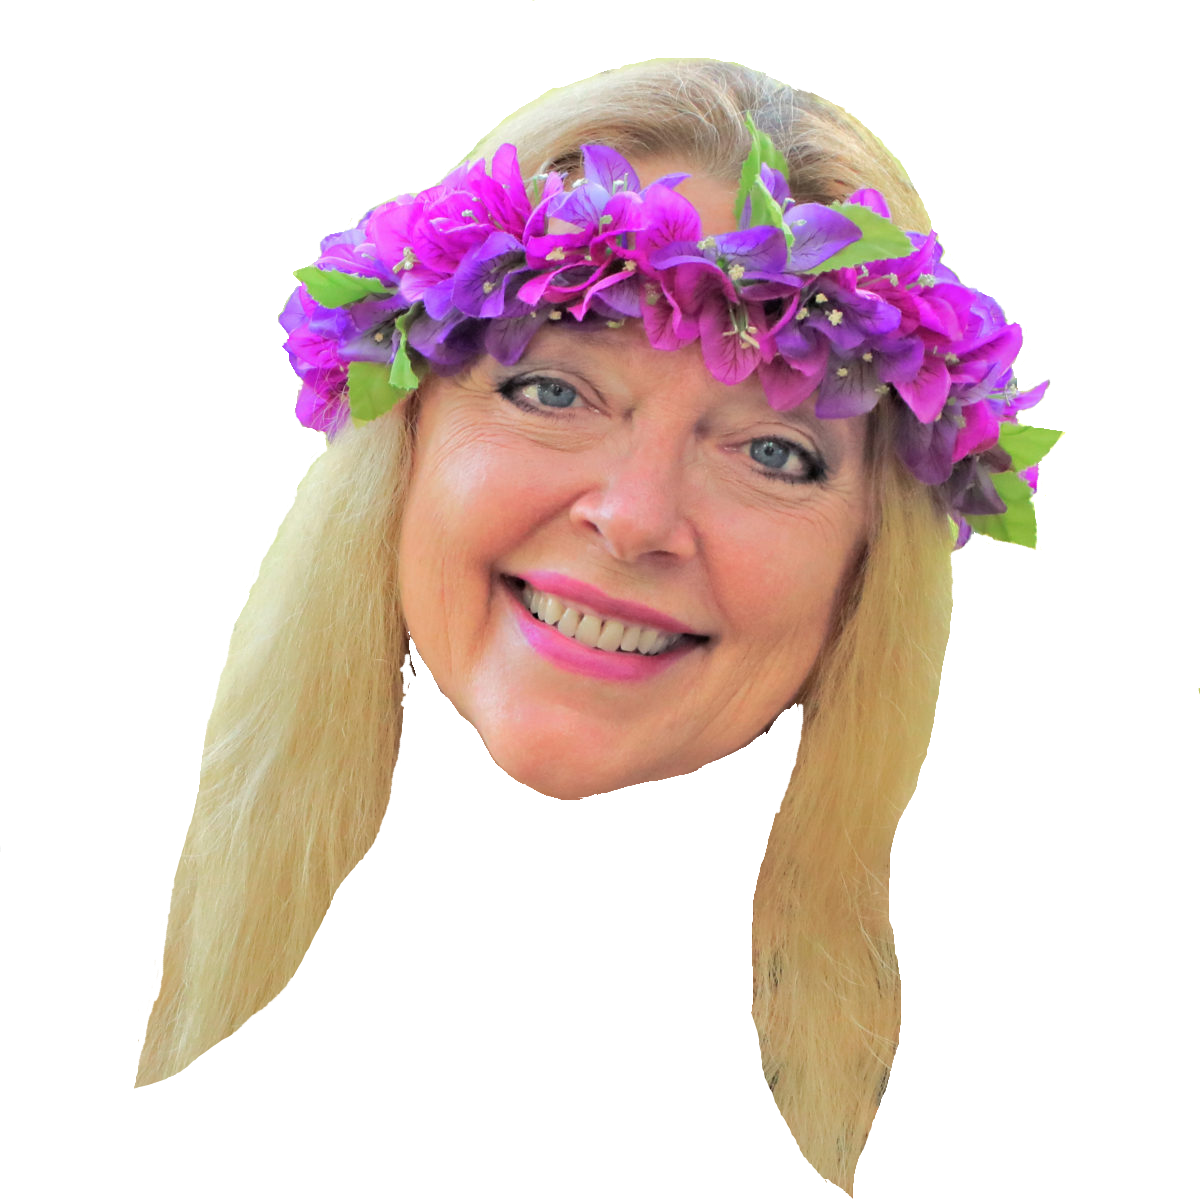
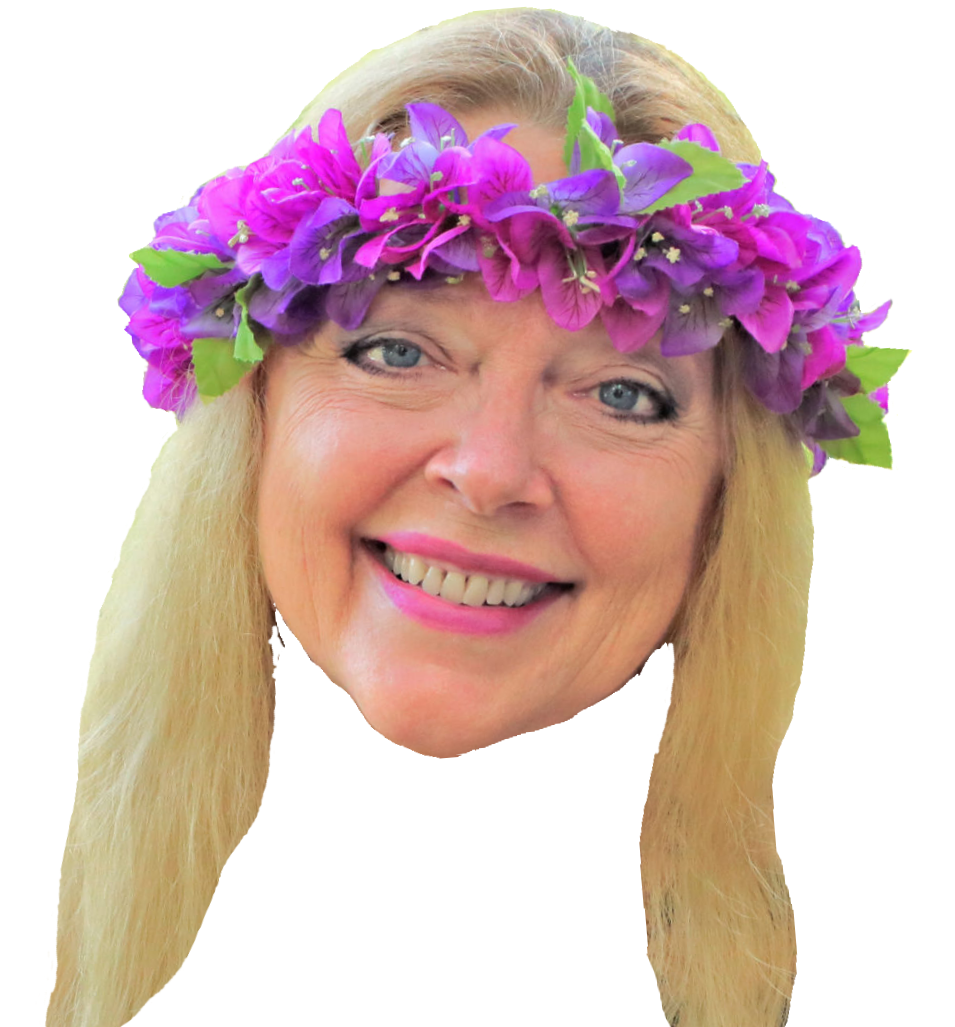
Refine image placement on main game board

diff --git a/style.css b/style.css
@@ -89,7 +89,6 @@ button:hover {
     color: white;
     background-color: #E26A2C;
     transition-duration: 0.1s;
-    /* border: 1px outset #E5890A;  */
 }
 
 .start-game-popup button {
@@ -98,7 +97,7 @@ button:hover {
     margin: 10px;
 }
 
-.start-game-popup button, .popup-div .restart-btn {
+.start-game-popup button, .restart-btn {
     background-color: #FFC600;
     color: #1B1212;
 }
@@ -162,7 +161,7 @@ header {
     background-color: linen;
     font-size: 14pt;
     text-align: center;
-    width: 90%;
+    max-width: 50%;
     padding: 15px;
     border-top-left-radius: 50px 120px;
     border-top-right-radius: 50px 80px;
@@ -176,8 +175,16 @@ main {
     margin: 40px 10px;
 }
 
-aside img {
+.player1 img {
+    margin-bottom: -15%;
+    width: 90%;
+    transform: rotate(-11deg);
+}
+
+.player2 img {
+    margin-bottom: -20%;
     width: 100%;
+    transform: rotate(-5deg);
 }
 
 .player-info-div {
@@ -206,18 +213,18 @@ aside img {
 
 .player1 div img {
     float: left;
-    margin-left: 10px;
-    margin-bottom: 2px;
+    margin: 0 1% 1% 5%;
 }
 
 .player2 div {
     transform: rotate(2deg);
     box-shadow: 8px 8px 10px #362419;
+    margin-right: 15%;
 }
 
 .player2 div img {
     float: right;
-    margin-right: 10px;
+    margin: 0 10% 0 1%;
 }
 
 .player-info-div img {
@@ -295,7 +302,7 @@ aside img {
     width: 50%;
 } 
 
-.player1-win-popup h2, .player2-win-popup h2 {
+.player1-win-popup h2, .player2-win-popup h2, .tie-popup h2 {
     color: #FFC600;
 }
 
@@ -327,8 +334,8 @@ footer a {
 }
 
 .shake-horizontal {
-	-webkit-animation: shake-horizontal 0.8s cubic-bezier(0.455, 0.030, 0.515, 0.955) 2s both;
-	animation: shake-horizontal 0.8s cubic-bezier(0.455, 0.030, 0.515, 0.955) 2s both;
+	-webkit-animation: shake-horizontal 0.8s cubic-bezier(0.455, 0.030, 0.515, 0.955) 1.5s both;
+	animation: shake-horizontal 0.8s cubic-bezier(0.455, 0.030, 0.515, 0.955) 1.5s both;
 }
 
 .swirl-in-fwd {

diff --git a/index.html b/index.html
@@ -23,6 +23,7 @@
         <header>
             <span class="tictac-title-span">Tic Tac</span><span class="tk-title-span">Tiger King</span>
         </header>
+        <div class="game-status-div shake-horizontal">Player 1 begins!</div>
         <main>
             <aside class="player1">
                 <img src="images/joe-floating-head.png" alt="joe exotic floating head">
@@ -34,7 +35,6 @@
                 </div>
             </aside>
             <div class="gameboard-div">
-                <div class="game-status-div shake-horizontal">Player 1 begins!</div>
                 <div class="game-grid">
                     <div class="grid-cell" data-row="1" data-col="1"></div>
                     <div class="grid-cell" data-row="1" data-col="2"></div>

diff --git a/game.js b/game.js
@@ -2,17 +2,10 @@
 
 // readme info - highly recommend using chrome/safari to view for animations. IE not recommended. 
 // Approach - in the wake of TK season 2, thought it would be fun to make a game encapsulating the chaotic energy and colourful characters. 
-// acknowledge where animations and pics came from 
+// acknowledge where animations and pics came from - Animista, Netflix
 
 // Need to:
-// add images to sides and popups
-// add animated border to game status
-// favicon?
-
-
-// Nice to haves: 
-// after 1 game, would go on to TK2 - Jeff Lowe v Tim Stark
-// sound effects
+// add images to sides
 
 // DOM objects
 let popupDiv = document.querySelector(".popup-div");
